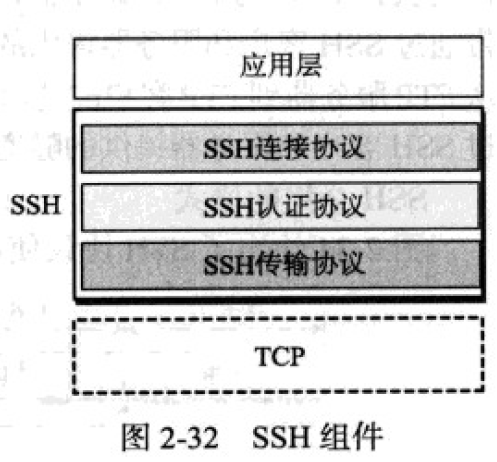
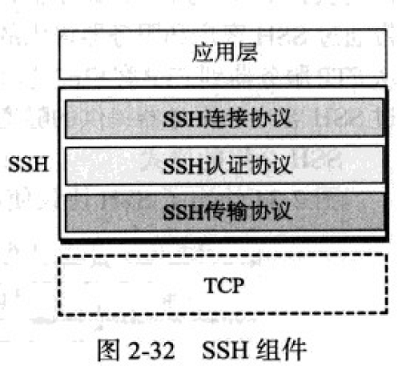
resize inserted images

diff --git a/计算机网络-自顶向下的方法.md b/计算机网络-自顶向下的方法.md
@@ -24,7 +24,7 @@
   传输层的地址对应端口号，网络层地址对应网络IP，链路层地址对应MAC地址。链路层地址用于在网络中定义一个特定的主机或者路由器。
 
 6. OSI模型（注意是模型不是协议）
-  <img src="https://raw.githubusercontent.com/liujiajun1993/notes/master/images/%E8%AE%A1%E7%AE%97%E6%9C%BA%E7%BD%91%E7%BB%9C1-3.png" width="350px">
+  ![OSI七层模型](https://raw.githubusercontent.com/liujiajun1993/notes/master/images/%E8%AE%A1%E7%AE%97%E6%9C%BA%E7%BD%91%E7%BB%9C1-3.png)
   相对于TCP/IP协议簇，多了会话层和表示层，一般认为TCP/IP的应用层包含了它们
   OSI模型最终并没有替代TCP/IP协议簇
   
@@ -131,8 +131,9 @@
 IP地址在全世界范围确定一个主机，而端口号在该主机上确定特定的进程
 ![IP地址和端口号的作用](https://raw.githubusercontent.com/liujiajun1993/notes/master/images/%E8%AE%A1%E7%AE%97%E6%9C%BA%E7%BD%91%E7%BB%9C3-2.png)
 
-![ICANN端口号编码范围](https://raw.githubusercontent.com/liujiajun1993/notes/master/images/%E8%AE%A1%E7%AE%97%E6%9C%BA%E7%BD%91%E7%BB%9C3-2.png)
+<br>
 熟知端口号存储在/etc/services文件中，每行给出服务器名和熟知端口号
+![ICANN端口号编码范围](https://raw.githubusercontent.com/liujiajun1993/notes/master/images/%E8%AE%A1%E7%AE%97%E6%9C%BA%E7%BD%91%E7%BB%9C3-3.png)
 
 **封装与解封装
 封装：传输层从应用层接收数据并加入传输层头部。
